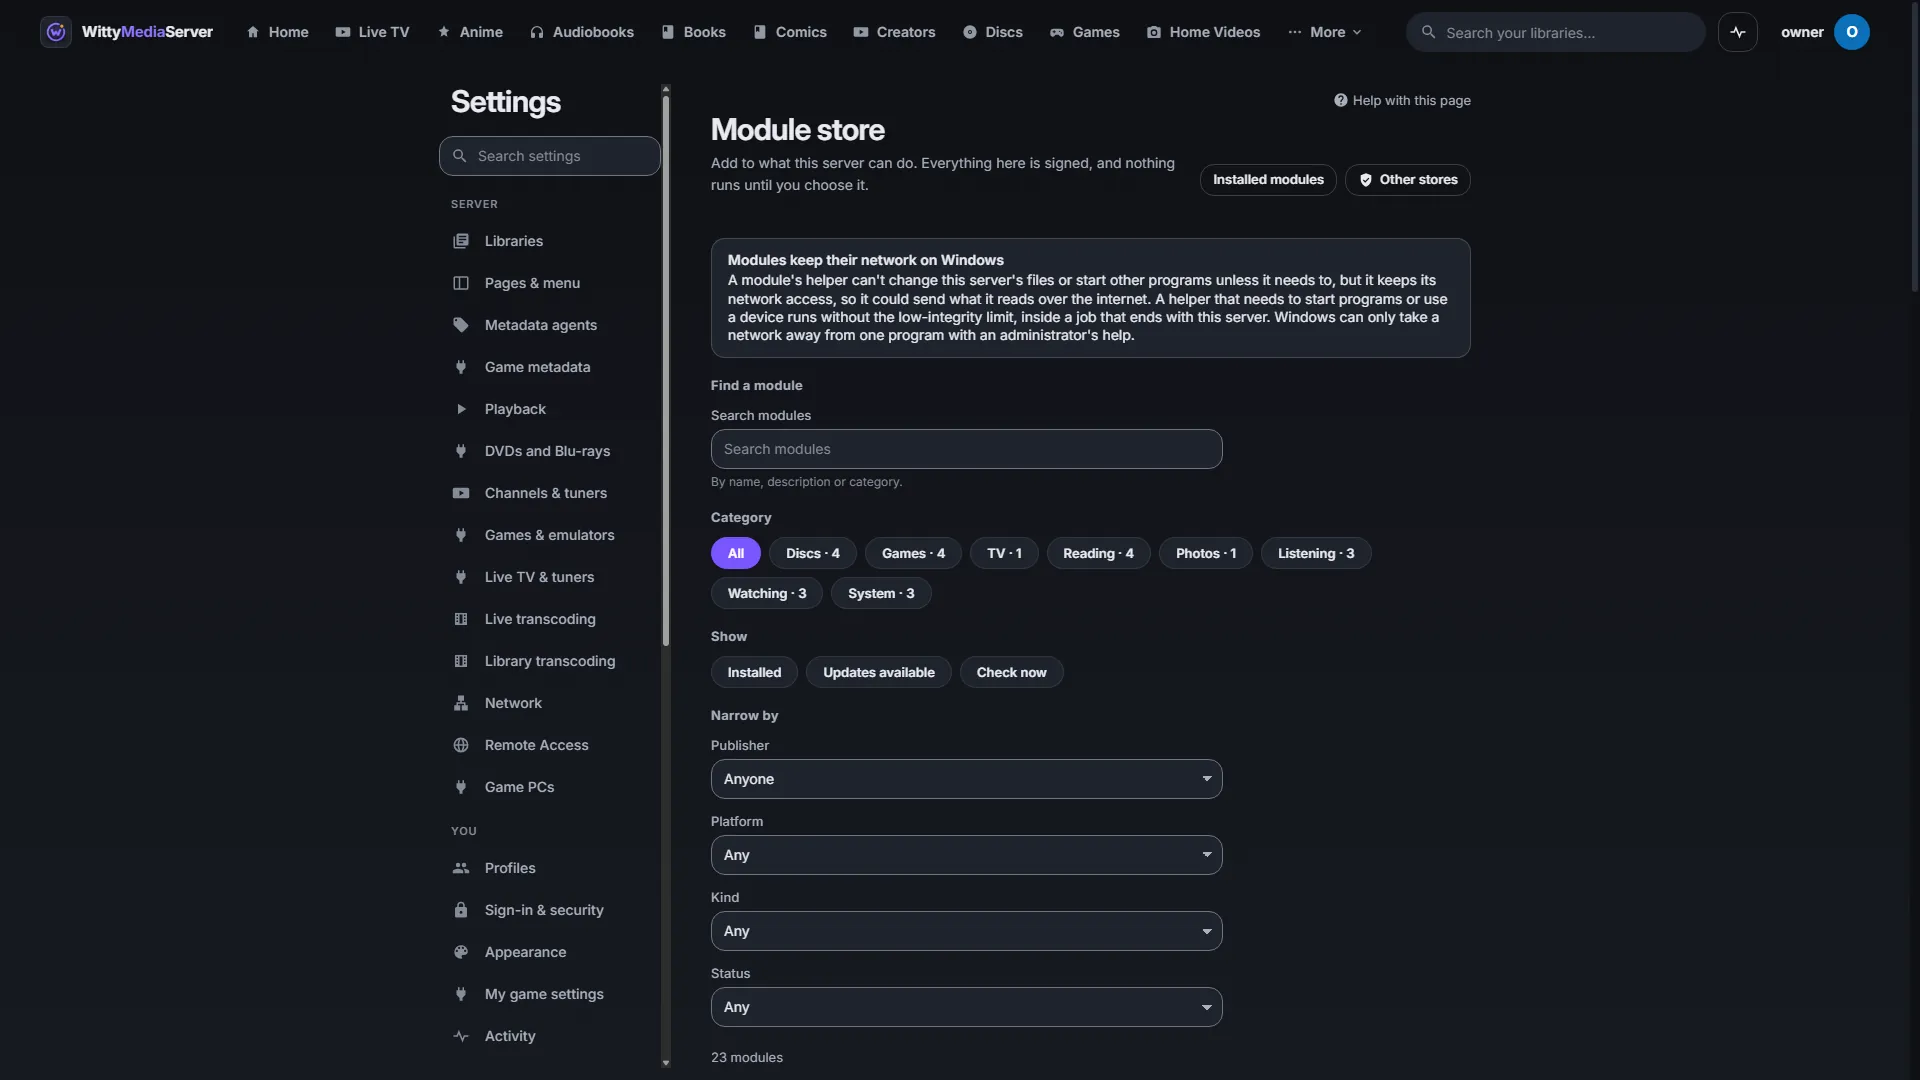
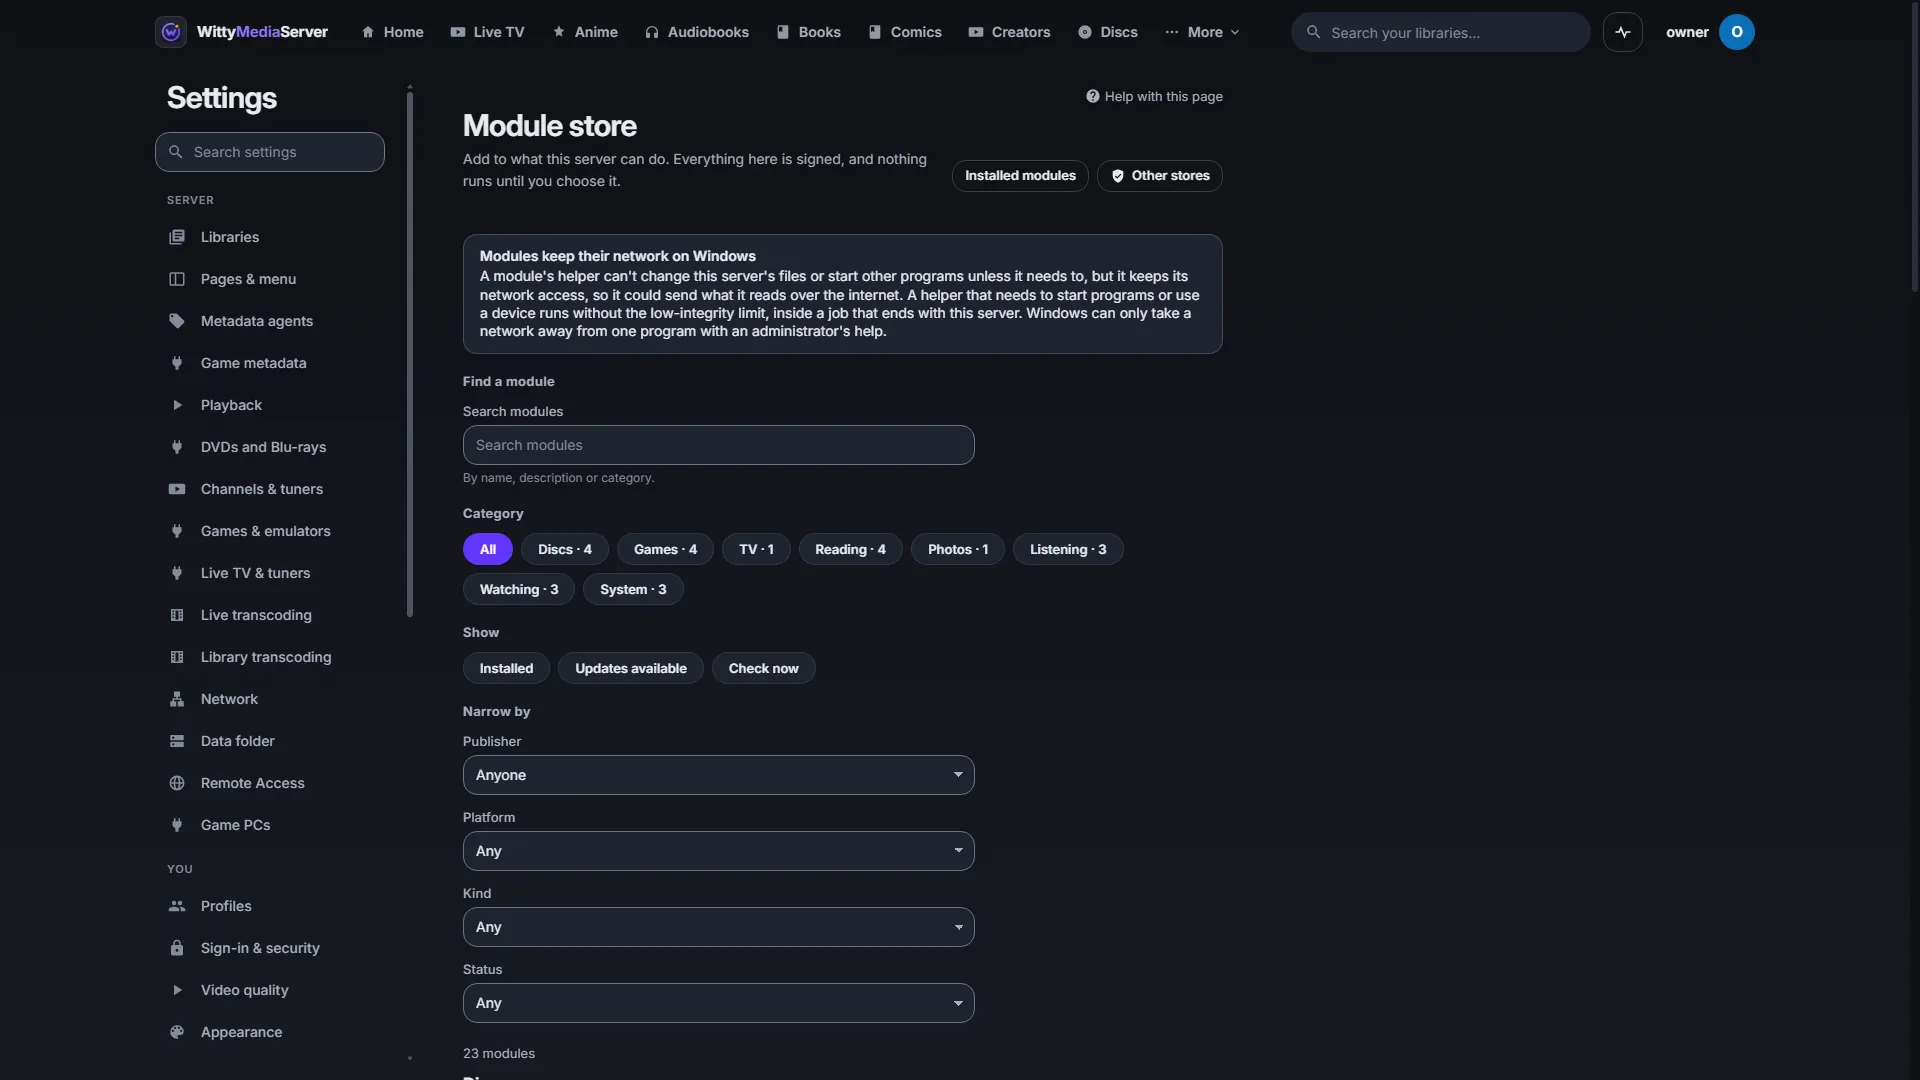
README pictures retaken from 0.8.1-alpha
Taken from a test server of WittyMediaServer 0.8.1-alpha with the 0.8.1 modules, filled only with openly licensed media; docs/images/CREDITS.md names what each one shows.

diff --git a/README.md b/README.md
@@ -8,7 +8,7 @@ What a [WittyMediaServer](https://github.com/wittywilla/WittyMediaServer) module
 
 ![The module store in WittyMediaServer](docs/images/module-store.webp)
 
-<sub>What a module becomes: its entry in the store.</sub>
+<sub>What a module becomes: its entry in the store, here from a local test catalogue.</sub>
 
 ![A module's page in the store](docs/images/store-module.webp)
 

diff --git a/docs/images/CREDITS.md b/docs/images/CREDITS.md
@@ -4,5 +4,5 @@ Pictures taken from a test server of WittyMediaServer, filled with openly licens
 
 | Picture | What it shows |
 |---|---|
-| `module-store.webp` | What a module becomes: its entry in the store. |
+| `module-store.webp` | What a module becomes: its entry in the store, here from a local test catalogue. |
 | `store-module.webp` | A module's own page in the store. |
